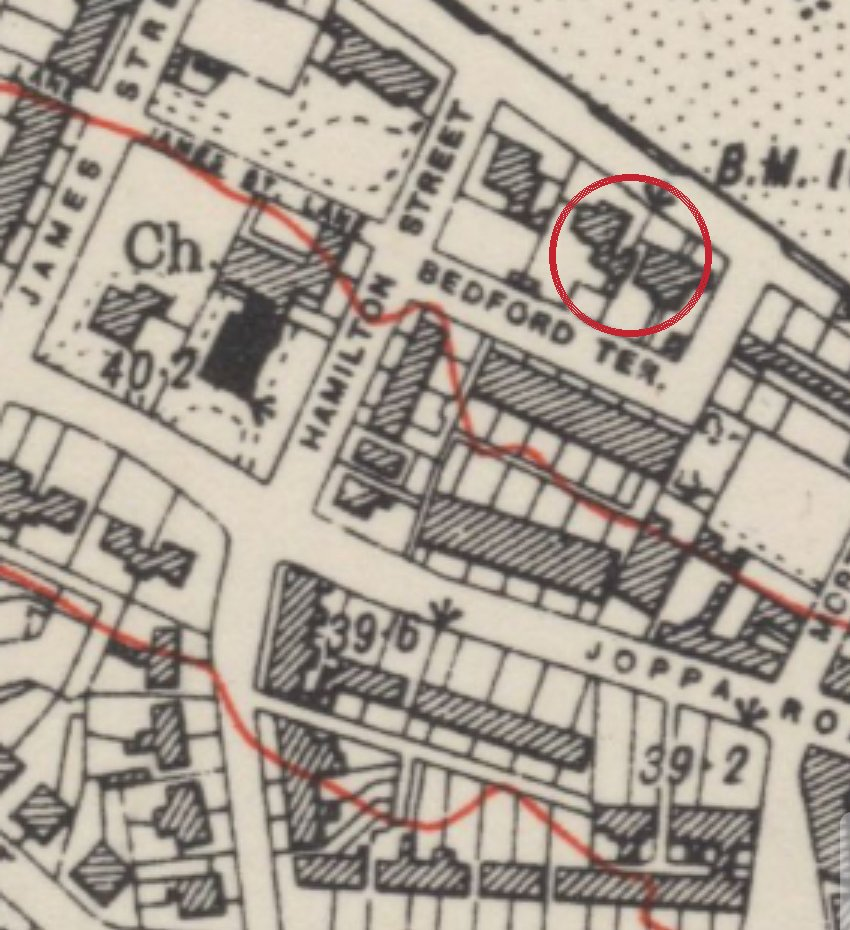
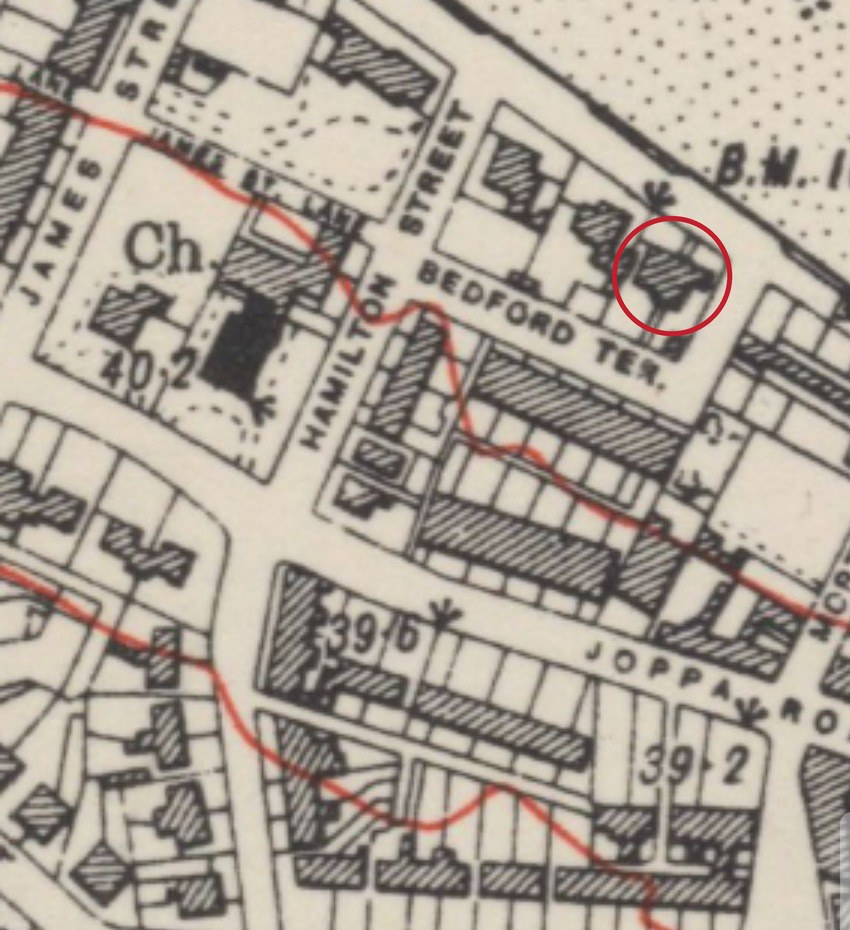
v46: Annex carousel, map ring, 1940 row
The Annex

The heading area is now sage, with a six-photo carousel: bay window, patio sunset, both drone shots, the fireplace (placeholder until you have a shot with the fire lit) and the front of the house
The drone shot at the bottom of the page is gone, because it's now in the carousel
The carousel works with the arrows, by swiping on a phone, with the dots or with the arrow keys

The House

The ring on the 1938 map now circles only number 77
The Home Guard row is dated 1940

All four inner pages now start and end on sage.

Changed region(s): [[0.6424, 0.1871, 0.8871, 0.3742]]

diff --git a/house.html b/house.html
@@ -2,14 +2,14 @@
 <html lang="en-GB">
 <head>
 <meta charset="utf-8">
-<meta name="site-version" content="v45">
+<meta name="site-version" content="v46">
 <meta name="viewport" content="width=device-width,initial-scale=1">
 <title>The House history</title>
 <meta name="description" content="The history of Pohutukawa House, a Category B listed Rogue Baronial villa built around 1869 on Portobello promenade.">
 <link rel="preconnect" href="https://fonts.googleapis.com">
 <link rel="preconnect" href="https://fonts.gstatic.com" crossorigin>
 <link href="https://fonts.googleapis.com/css2?family=Fraunces:opsz,wght@9..144,400;9..144,600&family=Inter:wght@400;500;600&display=swap" rel="stylesheet">
-<link rel="stylesheet" href="site.css?v=45">
+<link rel="stylesheet" href="site.css?v=46">
 </head>
 <body>
 
@@ -34,12 +34,12 @@
 
 <section class="band" id="timeline"><div class="wrap">
   <ol class="years">
-    <li><b>1869</b><span>Built by James Campbell Walker, one of three waterfront villas</span><figure class="tthumb"><img loading="lazy" src="images/postcard-joppa.jpg?v=45" alt="Edwardian postcard of the sands and promenade at Joppa, with Pohutukawa House's turret in the distance" data-cap="Sands and Promenade, Joppa: an Edwardian postcard, with Pohutukawa House dead centre, its turret right above the gentleman's head"></figure></li>
-    <li><b>1939–45</b><span>Base for the local Home Guard</span><figure class="tthumb"><img loading="lazy" src="images/home-guard.jpg?v=45" alt="The Home Guard unit on the front steps of Beachborough House during the Second World War" data-cap="The local Home Guard on the steps of Beachborough House, now Pohutukawa House, in the Second World War"></figure></li>
-    <li><b>1970</b><span>Converted into a hotel and bar: first the Temple Hall Hotel, later renamed the Dalriada</span><figure class="tthumb"><img loading="lazy" src="images/dalriada.jpg?v=45" alt="A music session in the bay window of the Dalriada bar, decorated for Christmas" data-cap="A music session in the Dalriada's bay window"></figure></li>
-    <li><b>2023</b><span>The restoration begins</span><figure class="tthumb"><img loading="lazy" src="images/restoration-2023.jpg?v=45" alt="Pohutukawa House wrapped in scaffolding from the promenade at the start of the restoration" data-cap="2023: the house under scaffolding as the restoration begins"></figure></li>
-    <li><b>2025</b><span>Restoration completed, and a family home again</span><figure class="tthumb"><img loading="lazy" src="images/datestone.jpg?v=45" alt="Carved sandstone panel reading DH &amp; MD, Re-loved, 2024" data-cap="Our initials, carved in 2024: the original stone's lettering had been lost to the weather"></figure></li>
-    <li><b>Next</b><span>The Annex welcomes its first guests</span><figure class="tthumb"><img loading="lazy" src="images/hero-bay-bluehour.jpg?v=45" alt="The Annex living room bay window at blue hour, looking over the promenade to the Firth of Forth" data-cap="The Annex bay window at blue hour"></figure></li>
+    <li><b>1869</b><span>Built by James Campbell Walker, one of three waterfront villas</span><figure class="tthumb"><img loading="lazy" src="images/postcard-joppa.jpg?v=46" alt="Edwardian postcard of the sands and promenade at Joppa, with Pohutukawa House's turret in the distance" data-cap="Sands and Promenade, Joppa: an Edwardian postcard, with Pohutukawa House dead centre, its turret right above the gentleman's head"></figure></li>
+    <li><b>1940</b><span>Base for the local Home Guard</span><figure class="tthumb"><img loading="lazy" src="images/home-guard.jpg?v=46" alt="The Home Guard unit on the front steps of Beachborough House during the Second World War" data-cap="The local Home Guard on the steps of Beachborough House, now Pohutukawa House, in the Second World War"></figure></li>
+    <li><b>1970</b><span>Converted into a hotel and bar: first the Temple Hall Hotel, later renamed the Dalriada</span><figure class="tthumb"><img loading="lazy" src="images/dalriada.jpg?v=46" alt="A music session in the bay window of the Dalriada bar, decorated for Christmas" data-cap="A music session in the Dalriada's bay window"></figure></li>
+    <li><b>2023</b><span>The restoration begins</span><figure class="tthumb"><img loading="lazy" src="images/restoration-2023.jpg?v=46" alt="Pohutukawa House wrapped in scaffolding from the promenade at the start of the restoration" data-cap="2023: the house under scaffolding as the restoration begins"></figure></li>
+    <li><b>2025</b><span>Restoration completed, and a family home again</span><figure class="tthumb"><img loading="lazy" src="images/datestone.jpg?v=46" alt="Carved sandstone panel reading DH &amp; MD, Re-loved, 2024" data-cap="Our initials, carved in 2024: the original stone's lettering had been lost to the weather"></figure></li>
+    <li><b>Next</b><span>The Annex welcomes its first guests</span><figure class="tthumb"><img loading="lazy" src="images/hero-bay-bluehour.jpg?v=46" alt="The Annex living room bay window at blue hour, looking over the promenade to the Firth of Forth" data-cap="The Annex bay window at blue hour"></figure></li>
   </ol>
 </div></div></section>
 
@@ -47,7 +47,7 @@
   <h2>The house appears on the map</h2>
   <p class="lede">The same stretch of Joppa shore on Ordnance Survey maps, from open fields before the villa was built to the streets of the 1930s. Hamilton Street, beside the house on the older maps, is today's Brunstane Road North, renamed around the middle of the 20th century.</p>
   <div class="split plan">
-    <figure><div class="frame"><img loading="lazy" src="images/town-plan.jpg?v=45" alt="Large-scale Ordnance Survey town plan of the house on Bedford Place, showing the original footprint with greenhouse and conservatory" data-cap="The original plan of the house on the large-scale Ordnance Survey town plan"></div><figcaption>The house on the large-scale Ordnance Survey town plan</figcaption></figure>
+    <figure><div class="frame"><img loading="lazy" src="images/town-plan.jpg?v=46" alt="Large-scale Ordnance Survey town plan of the house on Bedford Place, showing the original footprint with greenhouse and conservatory" data-cap="The original plan of the house on the large-scale Ordnance Survey town plan"></div><figcaption>The house on the large-scale Ordnance Survey town plan</figcaption></figure>
     <div class="txt">
       <h3>The original layout</h3>
       <p>This large-scale Ordnance Survey town plan shows the house as first built, between the promenade and Bedford Place. The street was renamed Bedford Terrace some time between 1905 and 1913, as the maps below show. The cross-hatched shapes are glasshouses: a greenhouse in the garden and a conservatory against the house.</p>
@@ -55,10 +55,10 @@
     </div>
   </div>
   <div class="maps4">
-    <figure><div class="frame"><button type="button" class="ph" aria-label="Placeholder. Cropped phone screenshot, used as a placeholder. Replace with the full-quality download from the National Library of Scotland map page, and add the NLS credit for this sheet.">Placeholder<span class="tip" role="tooltip"><b>Image to come</b>Cropped phone screenshot, used as a placeholder. Replace with the full-quality download from the National Library of Scotland map page, and add the NLS credit for this sheet.</span></button><img loading="lazy" src="images/map-1854.jpg?v=45" alt="1854 Ordnance Survey map of Joppa: open ground by the shore, with Hamilton Lodge and Lower Joppa" data-cap="1854: open ground at Lower Joppa, before the villa"></div><figcaption><b>1854</b> Open ground at Lower Joppa</figcaption></figure>
-    <figure><div class="frame"><button type="button" class="ph" aria-label="Placeholder. Cropped phone screenshot, used as a placeholder. Replace with the full-quality download from the National Library of Scotland map page, and add the NLS credit for this sheet.">Placeholder<span class="tip" role="tooltip"><b>Image to come</b>Cropped phone screenshot, used as a placeholder. Replace with the full-quality download from the National Library of Scotland map page, and add the NLS credit for this sheet.</span></button><img loading="lazy" src="images/map-1894.jpg?v=45" alt="1894 Ordnance Survey map of Joppa showing new villas along the shore" data-cap="1894: villas line the shore"></div><figcaption><b>1894</b> Villas line the shore</figcaption></figure>
-    <figure><div class="frame"><button type="button" class="ph" aria-label="Placeholder. Cropped phone screenshot, used as a placeholder. Replace with the full-quality download from the National Library of Scotland map page, and add the NLS credit for this sheet.">Placeholder<span class="tip" role="tooltip"><b>Image to come</b>Cropped phone screenshot, used as a placeholder. Replace with the full-quality download from the National Library of Scotland map page, and add the NLS credit for this sheet.</span></button><img loading="lazy" src="images/map-1913.jpg?v=45" alt="1913 Ordnance Survey map of Joppa with Bedford Terrace and a hotel marked" data-cap="1913: Bedford Terrace, and a hotel nearby"></div><figcaption><b>1913</b> On the eve of the First World War</figcaption></figure>
-    <figure><div class="frame"><button type="button" class="ph" aria-label="Placeholder. Cropped phone screenshot, used as a placeholder. Replace with the full-quality download from the National Library of Scotland map page, and add the NLS credit for this sheet.">Placeholder<span class="tip" role="tooltip"><b>Image to come</b>Cropped phone screenshot, used as a placeholder. Replace with the full-quality download from the National Library of Scotland map page, and add the NLS credit for this sheet.</span></button><img loading="lazy" src="images/map-1938.jpg?v=45" alt="1938 Ordnance Survey map of Joppa, fully built up" data-cap="1938: the streets as they are today"></div><figcaption><b>1938</b> Just before the Home Guard years</figcaption></figure>
+    <figure><div class="frame"><button type="button" class="ph" aria-label="Placeholder. Cropped phone screenshot, used as a placeholder. Replace with the full-quality download from the National Library of Scotland map page, and add the NLS credit for this sheet.">Placeholder<span class="tip" role="tooltip"><b>Image to come</b>Cropped phone screenshot, used as a placeholder. Replace with the full-quality download from the National Library of Scotland map page, and add the NLS credit for this sheet.</span></button><img loading="lazy" src="images/map-1854.jpg?v=46" alt="1854 Ordnance Survey map of Joppa: open ground by the shore, with Hamilton Lodge and Lower Joppa" data-cap="1854: open ground at Lower Joppa, before the villa"></div><figcaption><b>1854</b> Open ground at Lower Joppa</figcaption></figure>
+    <figure><div class="frame"><button type="button" class="ph" aria-label="Placeholder. Cropped phone screenshot, used as a placeholder. Replace with the full-quality download from the National Library of Scotland map page, and add the NLS credit for this sheet.">Placeholder<span class="tip" role="tooltip"><b>Image to come</b>Cropped phone screenshot, used as a placeholder. Replace with the full-quality download from the National Library of Scotland map page, and add the NLS credit for this sheet.</span></button><img loading="lazy" src="images/map-1894.jpg?v=46" alt="1894 Ordnance Survey map of Joppa showing new villas along the shore" data-cap="1894: villas line the shore"></div><figcaption><b>1894</b> Villas line the shore</figcaption></figure>
+    <figure><div class="frame"><button type="button" class="ph" aria-label="Placeholder. Cropped phone screenshot, used as a placeholder. Replace with the full-quality download from the National Library of Scotland map page, and add the NLS credit for this sheet.">Placeholder<span class="tip" role="tooltip"><b>Image to come</b>Cropped phone screenshot, used as a placeholder. Replace with the full-quality download from the National Library of Scotland map page, and add the NLS credit for this sheet.</span></button><img loading="lazy" src="images/map-1913.jpg?v=46" alt="1913 Ordnance Survey map of Joppa with Bedford Terrace and a hotel marked" data-cap="1913: Bedford Terrace, and a hotel nearby"></div><figcaption><b>1913</b> On the eve of the First World War</figcaption></figure>
+    <figure><div class="frame"><button type="button" class="ph" aria-label="Placeholder. Cropped phone screenshot, used as a placeholder. Replace with the full-quality download from the National Library of Scotland map page, and add the NLS credit for this sheet.">Placeholder<span class="tip" role="tooltip"><b>Image to come</b>Cropped phone screenshot, used as a placeholder. Replace with the full-quality download from the National Library of Scotland map page, and add the NLS credit for this sheet.</span></button><img loading="lazy" src="images/map-1938.jpg?v=46" alt="1938 Ordnance Survey map of Joppa, fully built up" data-cap="1938: the streets as they are today"></div><figcaption><b>1938</b> Just before the Home Guard years</figcaption></figure>
   </div>
   <p class="credit">Maps: National Library of Scotland. Full credits to follow.</p>
 </div></section>
@@ -86,6 +86,6 @@
 <dialog id="lb" aria-label="Photo"><button type="button" aria-label="Close">×</button><img alt=""><p></p></dialog>
 
 
-<script src="site.js?v=45"></script>
+<script src="site.js?v=46"></script>
 </body>
 </html>

diff --git a/index.html b/index.html
@@ -2,14 +2,14 @@
 <html lang="en-GB">
 <head>
 <meta charset="utf-8">
-<meta name="site-version" content="v45">
+<meta name="site-version" content="v46">
 <meta name="viewport" content="width=device-width,initial-scale=1">
 <title>Pohutukawa House Annex</title>
 <meta name="description" content="A one-bedroom annex in a Category B listed Rogue Baronial villa (1869) on Portobello promenade, Edinburgh's famous sea-swimming beach. Sea views over the Firth of Forth, wood burner, sauna 100 m away. Sleeps 2.">
 <link rel="preconnect" href="https://fonts.googleapis.com">
 <link rel="preconnect" href="https://fonts.gstatic.com" crossorigin>
 <link href="https://fonts.googleapis.com/css2?family=Fraunces:opsz,wght@9..144,400;9..144,600&family=Inter:wght@400;500;600&display=swap" rel="stylesheet">
-<link rel="stylesheet" href="site.css?v=45">
+<link rel="stylesheet" href="site.css?v=46">
 </head>
 <body>
 
@@ -24,7 +24,7 @@
 
 <main id="top">
 <section class="hero" aria-label="The view from the living room">
-  <img src="images/hero-bay-bluehour.jpg?v=45" alt="The living room bay window at blue hour, looking over the promenade railings to the Firth of Forth" fetchpriority="high">
+  <img src="images/hero-bay-bluehour.jpg?v=46" alt="The living room bay window at blue hour, looking over the promenade railings to the Firth of Forth" fetchpriority="high">
   <div class="slab">
     <h1>The Annex at Pohutukawa House</h1>
     <p>A one-bedroom Victorian hideaway on Portobello promenade, Edinburgh's famous swimming beach. The sand is across the road, and the Firth of Forth fills the bay window.</p>
@@ -53,10 +53,10 @@
 <section class="band sage"><div class="wrap">
   <h2>Explore</h2>
   <div class="tiles">
-    <a class="tile" href="annex.html"><div class="frame"><img loading="lazy" src="images/living-bay.jpg?v=45" alt="The living room bay window with sofa and wingback chair"></div><h3 data-icon="bay">The Annex</h3><p>Living room and kitchen, bedroom, shower room and your private patio.</p><span>See the rooms</span></a>
-    <a class="tile" href="portobello.html"><div class="frame"><img loading="lazy" src="images/aerial-beach.jpg?v=45" alt="Aerial view of Portobello beach and promenade"></div><h3 data-icon="sea">Portobello</h3><p>Sea swimming, saunas, food and drink, and the beach's seaside past.</p><span>Explore the area</span></a>
-    <a class="tile" href="edinburgh.html"><div class="frame"><img loading="lazy" src="images/aerial-city.jpg?v=45" alt="Aerial view from Portobello towards Arthur's Seat and Edinburgh"></div><h3 data-icon="castle">Edinburgh</h3><p>The Festival, Hogmanay and the Castle, 7 minutes away by train.</p><span>Explore the city</span></a>
-    <a class="tile" href="house.html"><div class="frame"><img loading="lazy" src="images/house-front.jpg?v=45" alt="The front of Pohutukawa House with its turret"></div><h3 data-icon="turret">The House</h3><p>An 1869 Rogue Baronial villa, Category B listed, that has been a hotel, a bar and now a family home.</p><span>Read its story</span></a>
+    <a class="tile" href="annex.html"><div class="frame"><img loading="lazy" src="images/living-bay.jpg?v=46" alt="The living room bay window with sofa and wingback chair"></div><h3 data-icon="bay">The Annex</h3><p>Living room and kitchen, bedroom, shower room and your private patio.</p><span>See the rooms</span></a>
+    <a class="tile" href="portobello.html"><div class="frame"><img loading="lazy" src="images/aerial-beach.jpg?v=46" alt="Aerial view of Portobello beach and promenade"></div><h3 data-icon="sea">Portobello</h3><p>Sea swimming, saunas, food and drink, and the beach's seaside past.</p><span>Explore the area</span></a>
+    <a class="tile" href="edinburgh.html"><div class="frame"><img loading="lazy" src="images/aerial-city.jpg?v=46" alt="Aerial view from Portobello towards Arthur's Seat and Edinburgh"></div><h3 data-icon="castle">Edinburgh</h3><p>The Festival, Hogmanay and the Castle, 7 minutes away by train.</p><span>Explore the city</span></a>
+    <a class="tile" href="house.html"><div class="frame"><img loading="lazy" src="images/house-front.jpg?v=46" alt="The front of Pohutukawa House with its turret"></div><h3 data-icon="turret">The House</h3><p>An 1869 Rogue Baronial villa, Category B listed, that has been a hotel, a bar and now a family home.</p><span>Read its story</span></a>
   </div>
 </div></section>
 
@@ -83,6 +83,6 @@
 <dialog id="lb" aria-label="Photo"><button type="button" aria-label="Close">×</button><img alt=""><p></p></dialog>
 
 
-<script src="site.js?v=45"></script>
+<script src="site.js?v=46"></script>
 </body>
 </html>

diff --git a/site.js b/site.js
@@ -44,6 +44,25 @@ const fig = (p, cls="") => `<figure class="${cls}${p.big?" big":""}${p.tall?" ta
 
 for (const el of document.querySelectorAll("[data-set]")) el.innerHTML = SETS[el.dataset.set].map(p => fig(p)).join("");
 for (const el of document.querySelectorAll("[data-photo]")) el.outerHTML = fig(P[el.dataset.photo]);
+
+// Carousels: data-carousel="annex" — slides scroll and snap, with arrows and dots
+const FIRE = {src:"fireplace", alt:"Marble fireplace with wood burner, log baskets and a wingback chair", cap:"A fire on in the original marble fireplace", fix:"Placeholder for a cosy shot with the wood burner lit. Shoot in the evening with the lamps on and the main lights off, fire burning well, from a little to one side so you're not reflected in the mirror above."};
+const CAROUSELS = { annex: [P.annexHero, SETS.patio[1], P.annexAir, P.aerial, FIRE, P.front] };
+for (const el of document.querySelectorAll("[data-carousel]")) {
+  const slides = CAROUSELS[el.dataset.carousel];
+  el.innerHTML = `<div class="ctrack" tabindex="0" aria-label="Photo carousel">${slides.map(p => fig(p, "cslide")).join("")}</div>
+    <button type="button" class="cbtn prev" aria-label="Previous photo">&#8249;</button><button type="button" class="cbtn next" aria-label="Next photo">&#8250;</button>
+    <div class="cdots">${slides.map((_, i) => `<button type="button" aria-label="Photo ${i + 1}"></button>`).join("")}</div>`;
+  const track = el.querySelector(".ctrack"), dots = [...el.querySelectorAll(".cdots button")];
+  const cur = () => Math.round(track.scrollLeft / track.clientWidth);
+  const go = i => track.scrollTo({left: ((i + slides.length) % slides.length) * track.clientWidth, behavior: "smooth"});
+  el.querySelector(".prev").onclick = () => go(cur() - 1);
+  el.querySelector(".next").onclick = () => go(cur() + 1);
+  dots.forEach((b, i) => b.onclick = () => go(i));
+  const mark = () => dots.forEach((b, i) => b.classList.toggle("on", i === cur()));
+  track.addEventListener("scroll", () => requestAnimationFrame(mark)); mark();
+  track.addEventListener("keydown", e => { if (e.key === "ArrowRight") go(cur() + 1); if (e.key === "ArrowLeft") go(cur() - 1); });
+}
 // Page icons: add data-icon="castle|sea|turret|bay" to a heading
 const ICONS = {
   castle: '<path d="M4 44c6-5 14-7 20-7s14 2 20 7"/><path d="M8 38V22h2v-3h2.5v3h2v-3H17v3h2v16"/><path d="M29 38V22h2v-3h2.5v3h2v-3H38v3h2v16"/><path d="M17.5 38V14h2v-3H22v3h4v-3h2.5v3h2v24"/><path d="M21 38v-6a3 3 0 0 1 6 0v6"/><path d="M24 11V4l5 1.5L24 7" fill="currentColor"/><path d="M12.5 28v3M35.5 28v3M24 20v3"/>',

diff --git a/annex.html b/annex.html
@@ -2,14 +2,14 @@
 <html lang="en-GB">
 <head>
 <meta charset="utf-8">
-<meta name="site-version" content="v45">
+<meta name="site-version" content="v46">
 <meta name="viewport" content="width=device-width,initial-scale=1">
 <title>The Annex rooms</title>
 <meta name="description" content="Rooms at The Annex, Pohutukawa House: living room and kitchen with wood burner, Euro king bedroom, walk-in shower room and private patio.">
 <link rel="preconnect" href="https://fonts.googleapis.com">
 <link rel="preconnect" href="https://fonts.gstatic.com" crossorigin>
 <link href="https://fonts.googleapis.com/css2?family=Fraunces:opsz,wght@9..144,400;9..144,600&family=Inter:wght@400;500;600&display=swap" rel="stylesheet">
-<link rel="stylesheet" href="site.css?v=45">
+<link rel="stylesheet" href="site.css?v=46">
 </head>
 <body>
 
@@ -23,14 +23,13 @@
 </div></header>
 
 <main id="top">
-<section class="band pagehead"><div class="wrap">
+<section class="band pagehead sage"><div class="wrap">
   <h1 data-icon="bay">The Annex</h1>
   <p>A restored one-bedroom wing with its own front door: open-plan living room and kitchen, a quiet bedroom at the back, an en-suite shower room and a private patio.</p>
+  <div class="carousel" data-carousel="annex"></div>
 </div></section>
 
-<section class="band" style="padding-bottom:0"><div class="wrap"><div class="moneyshot" data-photo="annexHero"></div></div></section>
-
-<section class="band" id="rooms" style="padding-top:0"><div class="wrap">
+<section class="band" id="rooms"><div class="wrap">
   <div class="room">
     <div class="roomhead"><h2>Living room and kitchen</h2><p>One open room under a high Victorian ceiling, with a skylight high above the hall end. Sofa in the bay, wingback by the fire, and a breakfast bar for three on the island.</p></div>
     <div class="gallery" data-set="living"></div>
@@ -48,8 +47,6 @@
     <div class="gallery" data-set="patio"></div>
   </div>
 </div></section>
-
-<section class="band" style="padding-top:0"><div class="wrap"><div class="moneyshot" data-photo="annexAir"></div></div></section>
 
 <section class="band sage" id="features"><div class="wrap">
   <h2>What's included</h2>
@@ -83,6 +80,6 @@
 <dialog id="lb" aria-label="Photo"><button type="button" aria-label="Close">×</button><img alt=""><p></p></dialog>
 
 
-<script src="site.js?v=45"></script>
+<script src="site.js?v=46"></script>
 </body>
 </html>

diff --git a/site.css b/site.css
@@ -249,3 +249,17 @@ dialog button{position:fixed;top:14px;right:14px;width:46px;height:46px;border-r
 .tthumb.tbd{display:block;background:repeating-linear-gradient(45deg,var(--sage),var(--sage) 6px,color-mix(in srgb,var(--sage) 80%,var(--ink) 6%) 6px,color-mix(in srgb,var(--sage) 80%,var(--ink) 6%) 12px);cursor:help}
 @media(max-width:600px){.years li{grid-template-columns:4.6em minmax(0,1fr)}.years li:has(.tthumb){grid-template-columns:4.6em minmax(0,1fr) 60px}.years b{font-size:20px}.tthumb{width:60px;height:60px}}
 #timeline .years li:has(.tthumb){grid-template-columns:6.5em minmax(0,1fr) 88px}#timeline .tthumb{width:88px;height:88px}@media(max-width:600px){#timeline .years li:has(.tthumb){grid-template-columns:4.6em minmax(0,1fr) 60px}#timeline .tthumb{width:60px;height:60px}}
+
+/* Carousel (v46) */
+.carousel{position:relative;margin-top:clamp(24px,3vw,36px)}
+.ctrack{display:flex;overflow-x:auto;scroll-snap-type:x mandatory;scrollbar-width:none;border-radius:6px}
+.ctrack::-webkit-scrollbar{display:none}
+.cslide{flex:0 0 100%;scroll-snap-align:start;margin:0}
+.cslide .frame{aspect-ratio:16/9}
+@media(max-width:600px){.cslide .frame{aspect-ratio:4/3}}
+.cbtn{position:absolute;top:calc(50% - 40px);width:44px;height:44px;border-radius:50%;border:0;background:rgba(255,255,255,.88);color:var(--ink);font-size:30px;line-height:40px;cursor:pointer;box-shadow:0 2px 8px rgba(0,0,0,.18)}
+.cbtn.prev{left:12px}.cbtn.next{right:12px}
+.cbtn:hover{background:#fff}
+.cdots{display:flex;justify-content:center;gap:8px;margin-top:10px}
+.cdots button{width:9px;height:9px;border-radius:50%;border:0;padding:0;background:color-mix(in srgb,var(--ink) 25%,transparent);cursor:pointer}
+.cdots button.on{background:var(--red)}

diff --git a/edinburgh.html b/edinburgh.html
@@ -2,14 +2,14 @@
 <html lang="en-GB">
 <head>
 <meta charset="utf-8">
-<meta name="site-version" content="v45">
+<meta name="site-version" content="v46">
 <meta name="viewport" content="width=device-width,initial-scale=1">
 <title>Edinburgh from the seaside</title>
 <meta name="description" content="Edinburgh from The Annex at Pohutukawa House in Portobello: 7 minutes by train to Waverley, with the Festival, Hogmanay and Edinburgh Castle 3 miles away.">
 <link rel="preconnect" href="https://fonts.googleapis.com">
 <link rel="preconnect" href="https://fonts.gstatic.com" crossorigin>
 <link href="https://fonts.googleapis.com/css2?family=Fraunces:opsz,wght@9..144,400;9..144,600&family=Inter:wght@400;500;600&display=swap" rel="stylesheet">
-<link rel="stylesheet" href="site.css?v=45">
+<link rel="stylesheet" href="site.css?v=46">
 </head>
 <body>
 
@@ -106,6 +106,6 @@
 <dialog id="lb" aria-label="Photo"><button type="button" aria-label="Close">×</button><img alt=""><p></p></dialog>
 
 
-<script src="site.js?v=45"></script>
+<script src="site.js?v=46"></script>
 </body>
 </html>

diff --git a/portobello.html b/portobello.html
@@ -2,14 +2,14 @@
 <html lang="en-GB">
 <head>
 <meta charset="utf-8">
-<meta name="site-version" content="v45">
+<meta name="site-version" content="v46">
 <meta name="viewport" content="width=device-width,initial-scale=1">
 <title>Portobello beach</title>
 <meta name="description" content="Portobello, Edinburgh's beach: sea swimming, saunas, food and drink, and seaside history, on the doorstep of The Annex at Pohutukawa House.">
 <link rel="preconnect" href="https://fonts.googleapis.com">
 <link rel="preconnect" href="https://fonts.gstatic.com" crossorigin>
 <link href="https://fonts.googleapis.com/css2?family=Fraunces:opsz,wght@9..144,400;9..144,600&family=Inter:wght@400;500;600&display=swap" rel="stylesheet">
-<link rel="stylesheet" href="site.css?v=45">
+<link rel="stylesheet" href="site.css?v=46">
 </head>
 <body>
 
@@ -79,6 +79,6 @@
 <dialog id="lb" aria-label="Photo"><button type="button" aria-label="Close">×</button><img alt=""><p></p></dialog>
 
 
-<script src="site.js?v=45"></script>
+<script src="site.js?v=46"></script>
 </body>
 </html>
